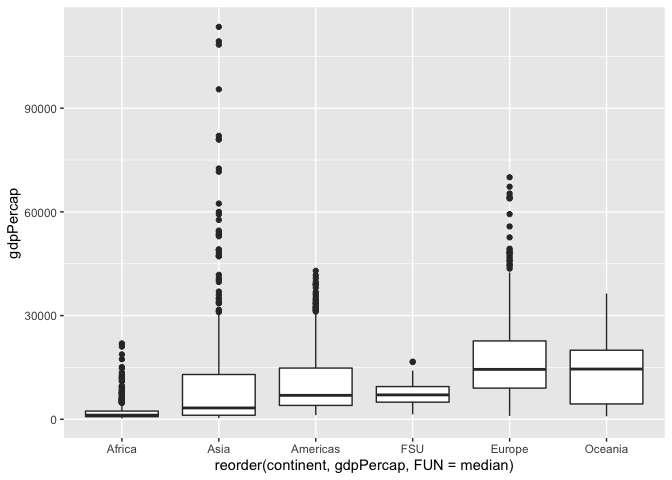
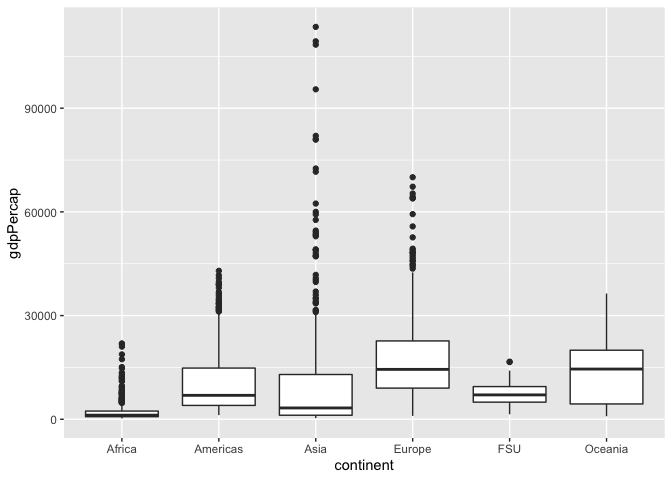
Re-knit and other aesthetic changes.

diff --git a/Week 3 - EDA/EDA-in-R.md b/Week 3 - EDA/EDA-in-R.md
@@ -13,10 +13,8 @@ library(tidyverse)
     ## ── Attaching packages ─────────────────────────────────────── tidyverse 1.3.2 ──
     ## ✔ ggplot2 3.3.6      ✔ purrr   0.3.4 
     ## ✔ tibble  3.1.8      ✔ dplyr   1.0.10
-    ## ✔ tidyr   1.2.0      ✔ stringr 1.4.1 
+    ## ✔ tidyr   1.2.1      ✔ stringr 1.4.1 
     ## ✔ readr   2.1.2      ✔ forcats 0.5.2
-
-    ## Warning: package 'tidyr' was built under R version 4.0.5
 
     ## Warning: package 'readr' was built under R version 4.0.5
 
@@ -118,9 +116,19 @@ ggplot(gapminder_unfiltered, aes(continent)) +
    geom_bar()
 ```
 
-![](EDA-in-R_files/figure-gfm/unnamed-chunk-7-1.png)<!-- -->
+![](EDA-in-R_files/figure-gfm/unnamed-chunk-7-1.png)<!-- --> This is our
+first ggplot function in class! Thrilling. We’ll obviously be spending a
+lot more time going into great detail about this, but for now, I’ll give
+you the nickel tour. Ggplot takes as parameters a dataset, and then you
+must map it’s aesthetic components. The aesthetics are what you are
+encoding the data as. So, in this one, we are encoding continent as the
+X aesthetic (I haven’t explicitly declared it here - ggplot is really
+good at understanding what aesthetics you mean). Once we have set the
+baseline we must tell ggplot how to encode data behind continent…here we
+are telling it to show it as a bar. It’s default behavior is to render a
+count of the x aesthetic as a bar.
 
-Great, but what the heck is FSU?
+Back to the data: This bar chart is great, but what the heck is FSU?
 
 ``` r
 gapminder_unfiltered %>% 
@@ -142,6 +150,11 @@ gapminder_unfiltered %>%
     ## 9 Uzbekistan     4
 
 Aha! FSU == Former Soviet Union.
+
+We use some of our basic dplyr tools (plus the pipe!) to figure that
+out. We declare the dataset, pipe it into a filter statement, where
+continent equals FSU, and then send that to a count function for
+country.
 
 Let’s get a sense of how many countries there are and how many entries
 each has:
@@ -165,11 +178,16 @@ count(gapminder_unfiltered, country, sort = T)
     ## 10 Spain              58
     ## # … with 177 more rows
 
+We use another count function, this time on all countries, with the
+option of sort = True to see how frequently countries appear in the
+data.
+
 So we know there ar 187 unique countries and that the max number of
 observations is 58.
 
 Ok, 58 seems to be the MAX and MODAL number of entries. Let’s see how
-many countries meet that criteria:
+many countries meet that criteria by visualizing the count data table as
+a histogram.
 
 ``` r
 gapminder_unfiltered %>% 
@@ -180,7 +198,14 @@ gapminder_unfiltered %>%
 
     ## `stat_bin()` using `bins = 30`. Pick better value with `binwidth`.
 
-![](EDA-in-R_files/figure-gfm/unnamed-chunk-10-1.png)<!-- -->
+![](EDA-in-R_files/figure-gfm/unnamed-chunk-10-1.png)<!-- --> Pipe the
+count datatable into ggplot, where we want to visualize the variable “n”
+as our X aesthetic. And how do we visualize that aesthetic? As a
+histogram.
+
+One important note here, notice that ggplot does NOT use the pipe. As
+Hadley says, it was built before the pipe was discovered, so it uses
+the + sign as it’s linking mechanism.
 
 This probably varies greatly by year. Let’s see what this looks like for
 year:
@@ -193,6 +218,10 @@ gapminder_unfiltered %>%
 ```
 
 ![](EDA-in-R_files/figure-gfm/unnamed-chunk-11-1.png)<!-- -->
+
+We pipe the dataset into a count function based on year, then pipe that
+into ggplot, here we declare two aesthetics, x and then y, year and
+n. We visualize the aesthetic as a line.
 
 Some interesting periodicity. Clearly we are getting the maximum (or
 near maximum) number of observations in years ending in 2 and 7. And
@@ -225,6 +254,11 @@ d1 <- gapminder_unfiltered %>%
    filter(n_obs >= 25)
 ```
 
+We create a new dataset called d1 by piping the unfiltered data into a
+filter function where year is \>= 1977, then for each country, we count
+(that’s the n function) how many times it shows up, and we then filter
+it to see only those countries that have 25 or more observations.
+
 Let’s see what that looks like by country:
 
 ``` r
@@ -235,11 +269,23 @@ ggplot(d1, aes(fct_infreq(country))) +
 
 ![](EDA-in-R_files/figure-gfm/unnamed-chunk-13-1.png)<!-- -->
 
-We can then filter the data down to just those countries
+We can then filter the data down to just those countries with a few
+dplyr moves.
+
+From that filtered data set we extract just the names of the countries
+as a vector. We pipe d1 into a select statement of just the country
+variable, then turn it into a vector.
 
 ``` r
-filtered_countries <- d1 %>% select(country) %>% as_vector
+filtered_countries <- d1 %>% 
+   select(country) %>% as_vector()
+```
 
+We then take the unfiltered data, pipe that into a filter statement that
+use the very useful %in% function to filter to just those countries,
+plus the year filter.
+
+``` r
 d2 <- gapminder_unfiltered %>% 
    filter(country %in% filtered_countries,
           year >= 1977)
@@ -259,7 +305,9 @@ ggplot(gapminder_unfiltered, aes(gdpPercap)) +
 
     ## `stat_bin()` using `bins = 30`. Pick better value with `binwidth`.
 
-![](EDA-in-R_files/figure-gfm/unnamed-chunk-15-1.png)<!-- -->
+![](EDA-in-R_files/figure-gfm/unnamed-chunk-16-1.png)<!-- -->
+
+Our aesthetic is `gdpPercap`
 
 A histogram divides the x-axis into equally spaced bins and then uses
 the height of a bar to display the number of observations that fall in
@@ -281,10 +329,15 @@ ggplot(gapminder_unfiltered, aes(gdpPercap)) +
    geom_histogram(binwidth = 1000)
 ```
 
-![](EDA-in-R_files/figure-gfm/unnamed-chunk-16-1.png)<!-- -->
+![](EDA-in-R_files/figure-gfm/unnamed-chunk-17-1.png)<!-- -->
 
 We can also use a boxplot on this, but, as you’ll see below, I don’t
 think it’s as useful as the histogram version.
+
+Notice that the aesthetic statement is the same, but we’ve simply
+changed the geom. Now it is a geom_boxplot. I’ve also flipped the axes
+just to make it more readable, using a coord_flip function. This is a
+frequent easy change to make.
 
 ``` r
 ggplot(gapminder_unfiltered, aes(gdpPercap)) +
@@ -292,10 +345,13 @@ ggplot(gapminder_unfiltered, aes(gdpPercap)) +
    coord_flip()
 ```
 
-![](EDA-in-R_files/figure-gfm/unnamed-chunk-17-1.png)<!-- -->
+![](EDA-in-R_files/figure-gfm/unnamed-chunk-18-1.png)<!-- -->
 
 Boxplots are odd, but can be incredibly useful (invented by Tukey, btw).
-Here’s a great description of how they work:
+Here’s a great description of how they work. The box itself represents
+the interquartile range, running from the 25th %tile to the 75th %tile,
+with the bar in the middle representing the median. The whiskers extend
+out to the farthest non-outlier point. And outliers are shown as dots.
 
 ![](https://d33wubrfki0l68.cloudfront.net/153b9af53b33918353fda9b691ded68cd7f62f51/5b616/images/eda-boxplot.png)
 
@@ -306,7 +362,8 @@ Here’s a great description of how they work:
 There’s probably some big variation here depending upon other factors
 like `region` so let’s look at that by using `facet_wrap()` a VERY
 useful tool for EDA that panels your plot by a categorical variable of
-your choosing:
+your choosing. The facet_wrap function takes a variable that you want to
+show small multiples for (or, as its called here, a facet)
 
 ``` r
 ggplot(gapminder_unfiltered, aes(gdpPercap)) +
@@ -316,7 +373,7 @@ ggplot(gapminder_unfiltered, aes(gdpPercap)) +
 
     ## `stat_bin()` using `bins = 30`. Pick better value with `binwidth`.
 
-![](EDA-in-R_files/figure-gfm/unnamed-chunk-18-1.png)<!-- -->
+![](EDA-in-R_files/figure-gfm/unnamed-chunk-19-1.png)<!-- -->
 
 We could again do this through boxplots:
 
@@ -325,23 +382,30 @@ ggplot(gapminder_unfiltered, aes(x = continent, y = gdpPercap)) +
    geom_boxplot()
 ```
 
-![](EDA-in-R_files/figure-gfm/unnamed-chunk-19-1.png)<!-- -->
+![](EDA-in-R_files/figure-gfm/unnamed-chunk-20-1.png)<!-- -->
 
 That’s a lot more useful than our previous histogram. We don’t have as
 much information as we got with the faceted bars, but everything is more
 compact so we can more easily compare them.
 
+Note here that we are designating an x and y aesthetic, and explicitly
+declaring it just for clarity here. No need for coord_flip because we
+have mapped the Y axis to the numeric variable.
+
 We can also do a little manipulation of this to make it slightly more
-readable:
+readable. We do this by using a reorder function in the x aesthetic
+declaration, telling it to reorder continent by gdpPercap, based on a
+median function.
 
 ``` r
 ggplot(gapminder_unfiltered, aes(x = reorder(continent, gdpPercap, FUN = median), y = gdpPercap)) +
    geom_boxplot()
 ```
 
-![](EDA-in-R_files/figure-gfm/unnamed-chunk-20-1.png)<!-- -->
+![](EDA-in-R_files/figure-gfm/unnamed-chunk-21-1.png)<!-- -->
 
-Flipping this might also help:
+Flipping this might also help (We could also have simply reversed the X
+and Y declarations, but this is easier (imho)).
 
 ``` r
 ggplot(gapminder_unfiltered, aes(x = reorder(continent, gdpPercap, FUN = median), y = gdpPercap)) +
@@ -349,10 +413,13 @@ ggplot(gapminder_unfiltered, aes(x = reorder(continent, gdpPercap, FUN = median)
    coord_flip()
 ```
 
-![](EDA-in-R_files/figure-gfm/unnamed-chunk-21-1.png)<!-- -->
+![](EDA-in-R_files/figure-gfm/unnamed-chunk-22-1.png)<!-- -->
 
 Let’s revisit the facet, but instead of using counts, we can use
-`..density..` as the y argument in the `aes` function:
+`..density..` as the y argument in the `aes` function. This let’s use
+see the values as a relative measurement rather than an absolute count -
+so that we can better see the patterns in other areas. We can provide
+..density.. as the y argument in `aes`:
 
 ``` r
 ggplot(gapminder_unfiltered, aes(gdpPercap, ..density..)) +
@@ -362,7 +429,7 @@ ggplot(gapminder_unfiltered, aes(gdpPercap, ..density..)) +
 
     ## `stat_bin()` using `bins = 30`. Pick better value with `binwidth`.
 
-![](EDA-in-R_files/figure-gfm/unnamed-chunk-22-1.png)<!-- -->
+![](EDA-in-R_files/figure-gfm/unnamed-chunk-23-1.png)<!-- -->
 
 You’ll notice that in this and the previous facet examples, the facets’
 axes were fixed. You can change this in an argument to `facet_wrap`,
@@ -377,7 +444,7 @@ ggplot(gapminder_unfiltered, aes(gdpPercap, ..density..)) +
 
     ## `stat_bin()` using `bins = 30`. Pick better value with `binwidth`.
 
-![](EDA-in-R_files/figure-gfm/unnamed-chunk-23-1.png)<!-- -->
+![](EDA-in-R_files/figure-gfm/unnamed-chunk-24-1.png)<!-- -->
 
 ### Numeric / Numeric interaction
 
@@ -388,7 +455,7 @@ as part of R’s base graphics option:
 pairs(gapminder_unfiltered)
 ```
 
-![](EDA-in-R_files/figure-gfm/unnamed-chunk-24-1.png)<!-- -->
+![](EDA-in-R_files/figure-gfm/unnamed-chunk-25-1.png)<!-- -->
 
 Each text box represents a variable, each of the graphics in the row of
 that text box has that variable as the X axis, while each of the
@@ -396,7 +463,9 @@ graphics in the column of that text box has that variable as the Y-axis.
 
 Of course, it’s still pretty hard to understand - the boxes are small
 and the `country` and `continent` graphs are odd because they’re
-categorical data. Let’s get rid of them using a smart select function:
+categorical data. Let’s get rid of them using a smart select function -
+the `select_if()` function and the declaration `is.numeric` - it only
+selects the numeric variables.
 
 ``` r
 gapminder_unfiltered %>% 
@@ -404,7 +473,7 @@ gapminder_unfiltered %>%
    pairs
 ```
 
-![](EDA-in-R_files/figure-gfm/unnamed-chunk-25-1.png)<!-- -->
+![](EDA-in-R_files/figure-gfm/unnamed-chunk-26-1.png)<!-- -->
 
 This is easier to read; life expectancy generally increases over time
 and with higher GDP, and population and GDP both increase over time.
@@ -430,16 +499,20 @@ More specifically, you are going to engage in an iterative cycle of:
 Let’s look specifically at the first pattern we noticed in the `pairs`
 chart above - the relationship between GDP and life expectancy.
 
+We declare these as our aesthetics and then the geom mapping we use is
+geom_point. It gives us a scatterplot.
+
 ``` r
 ggplot(gapminder_unfiltered, aes(gdpPercap, lifeExp)) +
    geom_point()
 ```
 
-![](EDA-in-R_files/figure-gfm/unnamed-chunk-26-1.png)<!-- -->
+![](EDA-in-R_files/figure-gfm/unnamed-chunk-27-1.png)<!-- -->
 
 This is pretty interesting! It appears as though higher GDP is
 associated with higher life expectancy, but only to a point. Let’s put a
-trend line through it to see what the model tells us:
+trend line through it to see what the model tells us. We can do this
+with a simple addition of a smooth geom
 
 ``` r
 ggplot(gapminder_unfiltered, aes(gdpPercap, lifeExp)) +
@@ -449,10 +522,12 @@ ggplot(gapminder_unfiltered, aes(gdpPercap, lifeExp)) +
 
     ## `geom_smooth()` using method = 'gam' and formula 'y ~ s(x, bs = "cs")'
 
-![](EDA-in-R_files/figure-gfm/unnamed-chunk-27-1.png)<!-- -->
+![](EDA-in-R_files/figure-gfm/unnamed-chunk-28-1.png)<!-- -->
 
 This sort of shape - where there is an obvious and single curve to the
 data - makes me think that log-transforming the data might make sense.
+This can be done by adding a scale_x statement; in this case
+`scale_x_log10`.
 
 ``` r
 ggplot(gapminder_unfiltered, aes(gdpPercap, lifeExp)) +
@@ -463,12 +538,13 @@ ggplot(gapminder_unfiltered, aes(gdpPercap, lifeExp)) +
 
     ## `geom_smooth()` using method = 'gam' and formula 'y ~ s(x, bs = "cs")'
 
-![](EDA-in-R_files/figure-gfm/unnamed-chunk-28-1.png)<!-- -->
+![](EDA-in-R_files/figure-gfm/unnamed-chunk-29-1.png)<!-- -->
 
 This gives us a nice linear relationship.
 
 Let’s think about how other variables come into play here. Certainly
-this will vary by continent:
+this will vary by continent, so let’s add faceting by continent, and set
+the scales to free.
 
 ``` r
 ggplot(gapminder_unfiltered, aes(gdpPercap, lifeExp)) +
@@ -480,10 +556,12 @@ ggplot(gapminder_unfiltered, aes(gdpPercap, lifeExp)) +
 
     ## `geom_smooth()` using method = 'gam' and formula 'y ~ s(x, bs = "cs")'
 
-![](EDA-in-R_files/figure-gfm/unnamed-chunk-29-1.png)<!-- -->
+![](EDA-in-R_files/figure-gfm/unnamed-chunk-30-1.png)<!-- -->
 
 You might also think about how it varies by year. We can add year to the
-previous chart encoded by color:
+previous chart encoded by color. Notice here that we are declaring an
+aesthetic in the geom_point statement, and that we are explicitly
+declaring color mapped to year.
 
 ``` r
 ggplot(gapminder_unfiltered, aes(gdpPercap, lifeExp)) +
@@ -495,11 +573,13 @@ ggplot(gapminder_unfiltered, aes(gdpPercap, lifeExp)) +
 
     ## `geom_smooth()` using method = 'gam' and formula 'y ~ s(x, bs = "cs")'
 
-![](EDA-in-R_files/figure-gfm/unnamed-chunk-30-1.png)<!-- -->
+![](EDA-in-R_files/figure-gfm/unnamed-chunk-31-1.png)<!-- -->
 
 This helps. You can see that a lot of the darker (older) dots are lower
 on the life expectancy axis, while lighter (newer) are higher. Let’s do
-a more direct comparison here between different epochs of data.
+a more direct comparison here between different epochs of data. You’ll
+see a key mutate statement up front with an ifelse statement, piped into
+ggplot.
 
 ``` r
 gapminder_unfiltered %>% 
@@ -513,7 +593,7 @@ gapminder_unfiltered %>%
 
     ## `geom_smooth()` using method = 'gam' and formula 'y ~ s(x, bs = "cs")'
 
-![](EDA-in-R_files/figure-gfm/unnamed-chunk-31-1.png)<!-- -->
+![](EDA-in-R_files/figure-gfm/unnamed-chunk-32-1.png)<!-- -->
 
 That confirms what we expected, though certainly there are some
 interesting outliers.
